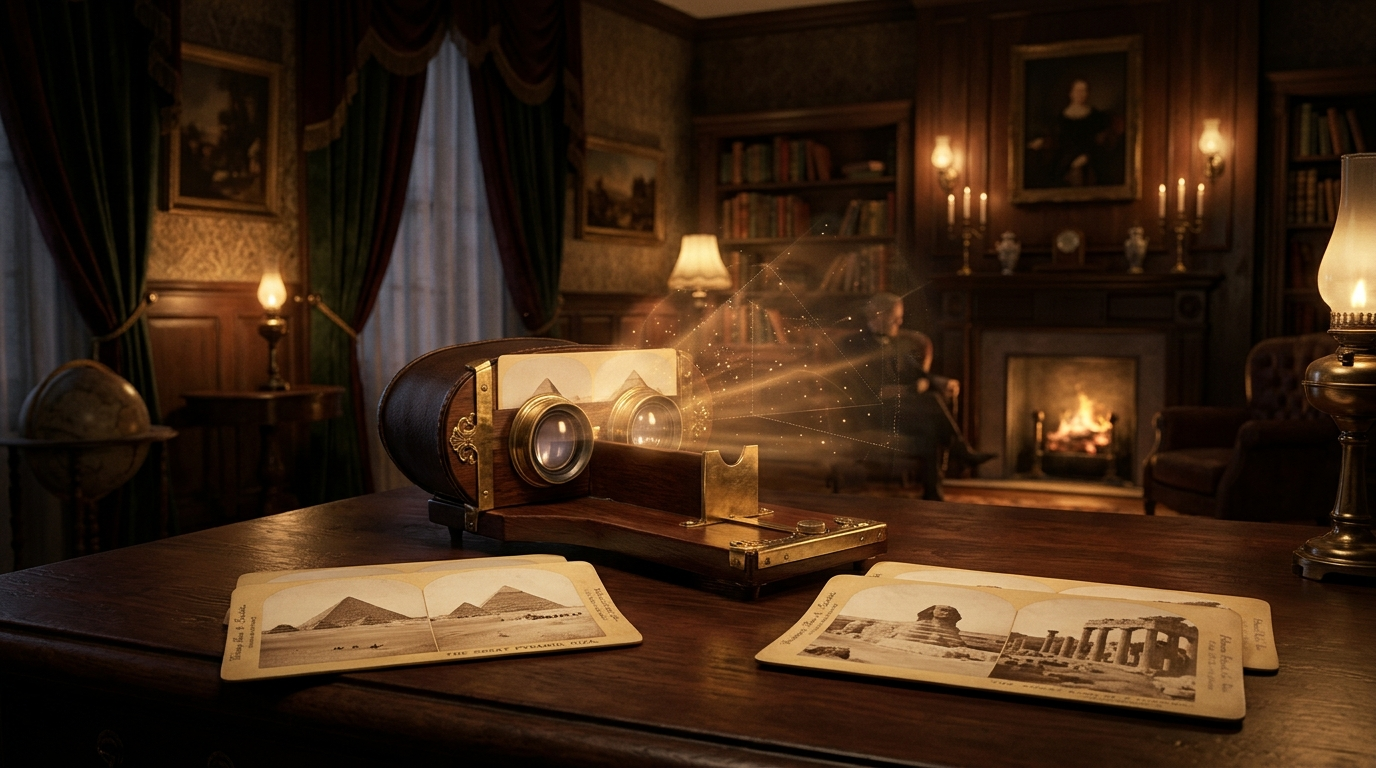
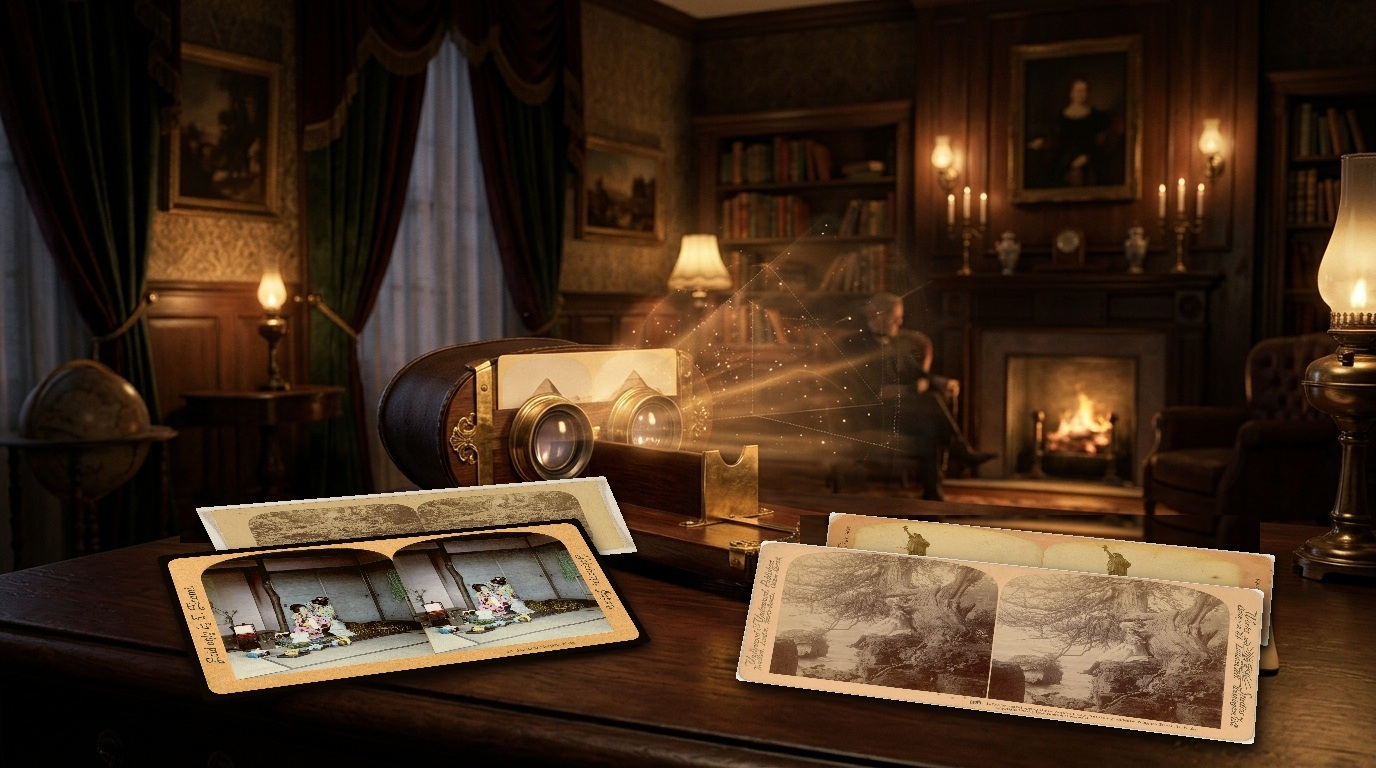
fix(website): replace table cards with authentic historical stereocards from dataset

Changed region(s): [[0.5312, 0.6562, 0.9375, 1.0], [0.0938, 0.625, 0.5, 0.9062]]

diff --git a/website/index.html b/website/index.html
@@ -9,19 +9,19 @@
     <!-- Open Graph / Facebook -->
     <meta property="og:title" content="ViewStereo | 歴史的ステレオカード復元 & インテリジェント・ステレオウィンドウスタジオ">
     <meta property="og:description" content="19世紀の歴史的ステレオカード（Stereoview）および現代ステレオ写真を、Core ML自動検出・7自由度対称ホモグラフィ整準・ステレオウィンドウ最適化によって高品位な空間写真・SBS・デジタルリマウントカードへ復元する macOS 専用アプリ。">
-    <meta property="og:image" content="https://viewstereo.p-media.jp/assets/share.jpg?v=0.1.4">
+    <meta property="og:image" content="https://viewstereo.p-media.jp/assets/share.jpg?v=0.1.5">
     <meta property="og:type" content="website">
 
     <!-- Twitter -->
     <meta name="twitter:card" content="summary_large_image">
     <meta name="twitter:title" content="ViewStereo | 歴史的ステレオカード復元 & インテリジェント・ステレオウィンドウスタジオ">
     <meta name="twitter:description" content="19世紀の歴史的ステレオカード（Stereoview）および現代ステレオ写真を、Core ML自動検出・7自由度対称ホモグラフィ整準・ステレオウィンドウ最適化によって高品位な空間写真・SBS・デジタルリマウントカードへ復元する macOS 専用アプリ。">
-    <meta name="twitter:image" content="https://viewstereo.p-media.jp/assets/share.jpg?v=0.1.4">
+    <meta name="twitter:image" content="https://viewstereo.p-media.jp/assets/share.jpg?v=0.1.5">
 
-    <link rel="icon" type="image/png" href="favicon.png?v=0.1.4">
-    <link rel="apple-touch-icon" href="apple-touch-icon.png?v=0.1.4">
-    <link rel="stylesheet" href="styles.css?v=0.1.4">
-    <link rel="stylesheet" href="trilogy-shared.css?v=0.1.4">
+    <link rel="icon" type="image/png" href="favicon.png?v=0.1.5">
+    <link rel="apple-touch-icon" href="apple-touch-icon.png?v=0.1.5">
+    <link rel="stylesheet" href="styles.css?v=0.1.5">
+    <link rel="stylesheet" href="trilogy-shared.css?v=0.1.5">
 </head>
 <body>
 
@@ -51,7 +51,7 @@
             <div class="hero-text-panel reveal">
                 <div class="hero-app-header">
                     <a href="#download" class="hero-app-badge-icon" title="ViewStereo">
-                        <img src="assets/app_icon.png?v=0.1.4" alt="ViewStereo Icon" width="512" height="512" fetchpriority="high">
+                        <img src="assets/app_icon.png?v=0.1.5" alt="ViewStereo Icon" width="512" height="512" fetchpriority="high">
                     </a>
                     <div>
                         <div class="hero-app-name"><span class="depth">View</span><span class="stereo">Stereo</span></div>
@@ -94,7 +94,7 @@
                             <div class="stage-layer layer-card" data-layer="card">
                                 <div class="layer-tag">1. Vintage Stereoview Scan</div>
                                 <div class="layer-img-container">
-                                    <img src="assets/hero_card.jpg?v=0.1.4" alt="Historical Stereoview Card Scan" width="1376" height="768" fetchpriority="high">
+                                    <img src="assets/hero_card.jpg?v=0.1.5" alt="Historical Stereoview Card Scan" width="1376" height="768" fetchpriority="high">
                                 </div>
                             </div>
                             <!-- Layer 2: Core ML Card Segmentation & 7-DoF -->
@@ -148,8 +148,8 @@
             <div class="story-card heritage-story-card">
                 <div class="story-image-container">
                     <picture>
-                        <source type="image/webp" srcset="assets/story_stereoview.webp?v=0.1.4">
-                        <img src="assets/story_stereoview.jpg?v=0.1.4" alt="19th Century Stereoview Experience" class="story-image" width="1280" height="720" loading="lazy">
+                        <source type="image/webp" srcset="assets/story_stereoview.webp?v=0.1.5">
+                        <img src="assets/story_stereoview.jpg?v=0.1.5" alt="19th Century Stereoview Experience" class="story-image" width="1280" height="720" loading="lazy">
                     </picture>
                 </div>
                 <div class="story-card-body">
@@ -213,7 +213,7 @@
                     <h3 data-i18n="feat-1-title">ステレオカード自動検出 ＆ 7自由度ホモグラフィ整準</h3>
                     <p data-i18n="feat-1-desc">StereoCardSeg (U-Net) と MobileSAM / SAM 2.1 Tiny により、台紙から左右の写真領域とアーチ型枠を自動抽出。LAPACK dposv_ + IRLS の7自由度対称ホモグラフィ整準により、手貼りによる傾き・歪み・垂直視差をサブピクセル精度で解消します。</p>
                 </div>
-                <div class="feature-visual" style="background-image: url('assets/feat_ai.jpg?v=0.1.4');"></div>
+                <div class="feature-visual" style="background-image: url('assets/feat_ai.jpg?v=0.1.5');"></div>
             </div>
 
             <div class="feature-item reveal">
@@ -222,7 +222,7 @@
                     <h3 data-i18n="feat-2-title">インテリジェント・ステレオウィンドウ ＆ MAAIR</h3>
                     <p data-i18n="feat-2-desc">最前景と Apple Vision 顕著性解析から最適なステレオウィンドウ位置を自動算出し、枠抜け（ウィンドウバイオレーション）を防止。さらに MAAIR（最大面積軸平行内接矩形）で黒枠のない最大有効領域を自動トリミングします。</p>
                 </div>
-                <div class="feature-visual" style="background-image: url('assets/feat_window.jpg?v=0.1.4');"></div>
+                <div class="feature-visual" style="background-image: url('assets/feat_window.jpg?v=0.1.5');"></div>
             </div>
 
             <div class="feature-item reveal">
@@ -231,7 +231,7 @@
                     <h3 data-i18n="feat-3-title">時代別デジタル・リマウント ＆ 活版OCRタイポグラフィ</h3>
                     <p data-i18n="feat-3-desc">1850年代の初期アイボリーから1900年代 Keystone ダーク曲面台紙まで8種類の時代別プリセットを搭載。Vision OCR が元台紙のタイトルや出版社クレジットを読み取り、活版印刷風タイポグラフィで美しく再構成します。</p>
                 </div>
-                <div class="feature-visual" style="background-image: url('assets/feat_remount.jpg?v=0.1.4');"></div>
+                <div class="feature-visual" style="background-image: url('assets/feat_remount.jpg?v=0.1.5');"></div>
             </div>
 
             <div class="feature-item reveal">
@@ -240,7 +240,7 @@
                     <h3 data-i18n="feat-4-title">Spatial Photo 書き出し ＆ フォルダ一括バッチ処理</h3>
                     <p data-i18n="feat-4-desc">Apple Vision Pro 用の MV-HEVC 空間写真（HEIC）、SBS、アナグリフ（Dubois/Color/Gray）、偏光、MPO、個別L/Rなど11形式の出力に対応。大量のアーカイブをフォルダごと自動処理し、調整レポート（.txt）も保存できます。</p>
                 </div>
-                <div class="feature-visual" style="background-image: url('assets/feat_export.jpg?v=0.1.4');"></div>
+                <div class="feature-visual" style="background-image: url('assets/feat_export.jpg?v=0.1.5');"></div>
             </div>
         </div>
     </section>
@@ -392,7 +392,7 @@
         </div>
     </footer>
 
-    <script src="trilogy-shared.js?v=0.1.4"></script>
-    <script src="script.js?v=0.1.4"></script>
+    <script src="trilogy-shared.js?v=0.1.5"></script>
+    <script src="script.js?v=0.1.5"></script>
 </body>
 </html>
